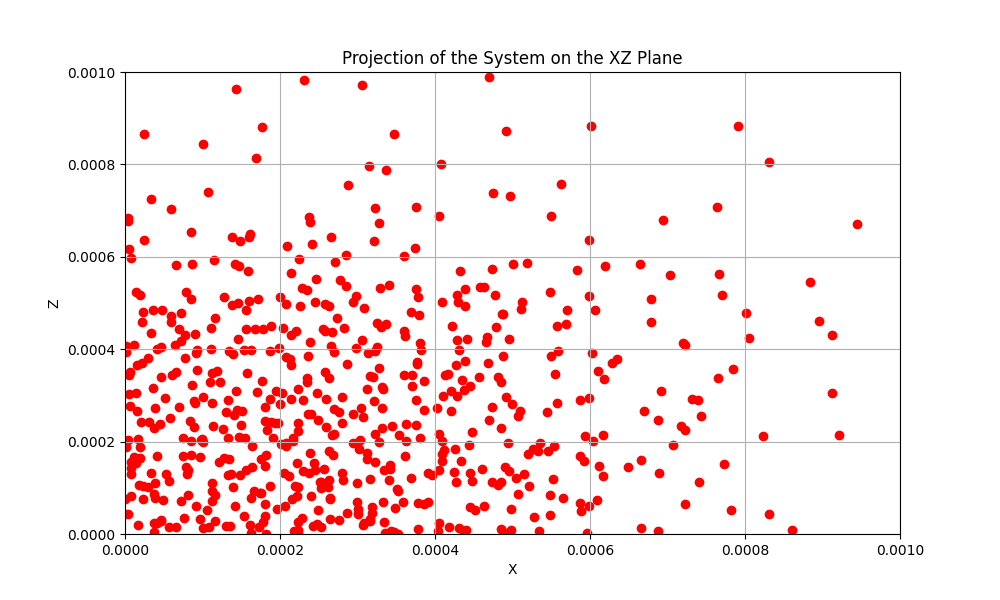
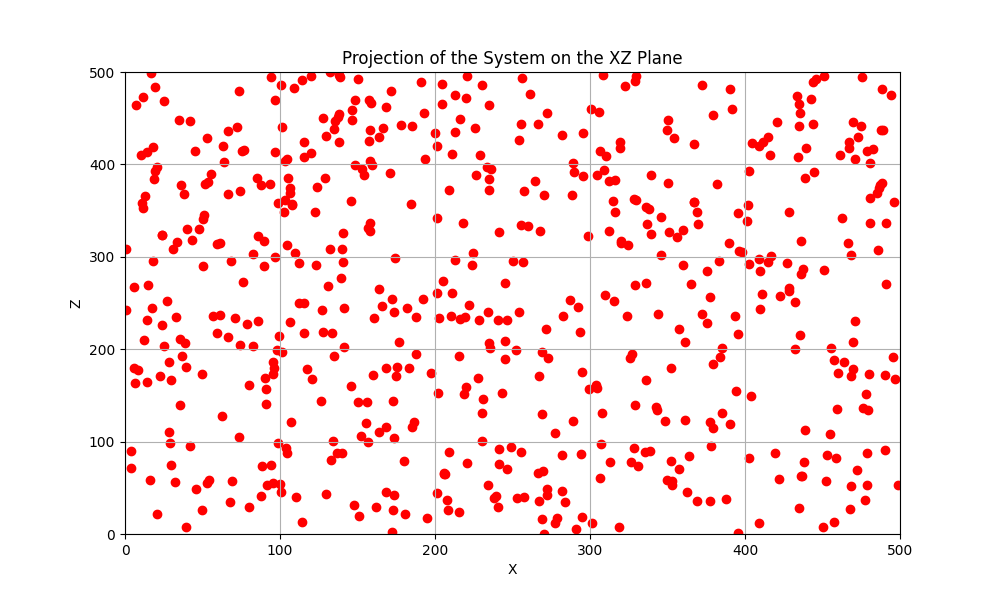
adding initial pressure parameter

diff --git a/montecarlosim/simulation.py b/montecarlosim/simulation.py
@@ -21,6 +21,7 @@ class Simulation():
         , step_size:float = 0.1
         , stop_condition:str = 'max_steps_50' ### Change this to something better
         , epsilon = None
+        , init_pressure = 1
         , initializer:Initializer = None ### Change this to something better
     ):
 
@@ -28,6 +29,7 @@ class Simulation():
         self.beta = beta
         self.stop_condition = stop_condition
         self.initializer = initializer
+        self.init_pressure = init_pressure
 
         self.container = container
 
@@ -120,10 +122,12 @@ class Simulation():
         
         max_x, max_y, max_z = self.container.corner
 
+        pf = self.init_pressure
+
         np.random.seed()
-        xs = 0.5 * max_x * np.random.rand(self.num_of_particles)
-        ys = 0.5 * max_y * np.random.rand(self.num_of_particles)
-        zs = 0.5 * max_z * np.random.rand(self.num_of_particles)
+        xs = pf * max_x * np.random.rand(self.num_of_particles)
+        ys = pf * max_y * np.random.rand(self.num_of_particles)
+        zs = pf * max_z * np.random.rand(self.num_of_particles)
 
         for i in range(self.num_of_particles):
             pi = (xs[i], ys[i], zs[i])
@@ -157,7 +161,8 @@ class Simulation():
             , self.stop_condition =='max_steps_100' and len(self.steps) >= 100
             , self.stop_condition =='max_steps_500' and len(self.steps) >= 500
             , self.stop_condition =='max_steps_1K' and len(self.steps) >= 1000
-            , self.stop_condition =='max_steps_5K' and len(self.steps) >= 1000
+            , self.stop_condition =='max_steps_5K' and len(self.steps) >= 5000
+            , self.stop_condition =='max_steps_6K' and len(self.steps) >= 6000
             , self.stop_condition =='max_steps_10K' and len(self.steps) >= 10000
             , self.stop_condition =='max_steps_100K' and len(self.steps) >= 100000
         ])
@@ -330,18 +335,23 @@ if TEST_MODE:
         sim = Simulation(container, 2)
     
         # Configuration 1: Particles at a closer distance
-        system1 = ([1, 1.5], [1, 1.5], [1, 1.5])
+        system1 = ([1, 3], [1, 3], [1, 3])
         energy1 = sim.energy(system1)
     
         # Configuration 2: Particles at a farther distance
-        system2 = ([1, 3], [1, 3], [1, 3])
+        system2 = ([1, 6], [1, 6], [1, 6])
         energy2 = sim.energy(system2)
     
         assert energy1 != np.inf and energy2 != np.inf, \
             "Energies should be finite for valid particle positions"
         
-        ### Verify this test, it is directly related to
-        ### LJ potential
-        assert energy2 < energy1, \
+        assert energy2 > energy1, \
             """Energy should be higher for particles at a closer distance 
             due to the Lennard-Jones potential"""
+            
+    def test_lj():
+        assert lj_potential(1) == 0, \
+            """Potential at 1 should be 0"""
+        
+        assert lj_potential(math.pow(2, (1/6))) == -1, \
+            """Potential should be -1"""

diff --git a/run_simulation.py b/run_simulation.py
@@ -8,23 +8,22 @@ from montecarlosim.plotter import Plotter
 
 def main():
 
-    L = 0.001
-    N = 300
+    L = 500
+    N = 600
 
     print(f"Simulation started at {time.asctime()}...")
     t0 = time.time()
 
     container = get_region('block', (L, L, L))
     sim = Simulation(container, N
-        , step_size=0.1
-        , epsilon=1
-        , beta=1
-        , stop_condition='max_steps_5K'
+        , step_size=0.2
+        , stop_condition='max_steps_6K'
+        , init_pressure=1
         )
     sim.start()
 
     dt = time.time() - t0
-    print(f"Simulation took {dt} ms")
+    print(f"Simulation took {dt} s")
 
     plotter = Plotter(sim)
     plotter.plot_energy()

diff --git a/montecarlosim/plotter.py b/montecarlosim/plotter.py
@@ -6,12 +6,10 @@ class Plotter:
 
     def plot_energy(self):
         energies = self.simulation.energies
-        
         steps = range(len(energies))
         
         plt.figure(figsize=(10, 6))
-        # plt.plot(steps, energies, marker='o', linestyle='-', color='b')
-        plt.scatter(steps, energies, color='b')
+        plt.plot(steps, energies, marker='.', linestyle='-', color='b', markersize=2)
         plt.title('Energy Variation Over Time')
         plt.xlabel('Step')
         plt.ylabel('Energy')
